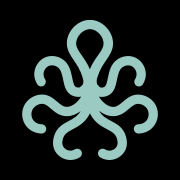
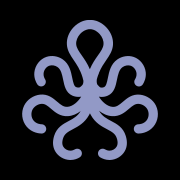
El acento vuelve al violeta, el icono lo lee del token, y dos guardias sobre los maestros (D-BBW-70/71) (#31)
* feat(color): el acento vuelve al violeta, el icono lo lee del token, y dos guardias nuevas sobre los maestros (D-BBW-70, D-BBW-71)

ACENTO #9299c6 → oklch(0.6936 0.0666 277.6). EL TONO VUELVE A SEPARARSE:
91,2 grados contra la familia neutra, frente a los 1,4 del turquesa. El croma
sube de 0.0503 a 0.0666, aunque no vuelve a los 0.1399 del violeta original:
es un violeta apagado.

EL PASO MADRE CAMBIA, 300 → 400, y no es cosmético: la fórmula reparte las
fracciones según dónde cae la madre, así que la rampa se re-deriva entera con
cuatro peldaños por encima y cinco por debajo. Es la primera vez en este repo
que una madre cambia de peldaño. Los tres roles semánticos se re-apuntan un
escalón para conservar su RELACIÓN con ella: dejar `--bbf-accent` en el 300
habría servido un tinte más claro que el color elegido.

EL ICONO LEE EL TOKEN. El maestro declara `currentColor` y el generador lo
resuelve desde `MASTER_PAINT_TOKENS`, por el mismo camino que ya usaba para
la superficie de los derivados opacos. Cero color escrito a mano en cualquier
maestro, comprobado. Un cambio de acento se propaga ahora solo a favicon,
iconos, recortable, Apple, imagen para compartir y el logo de la cabecera.

Eso abría un hueco nuevo que se cierra en el mismo commit: cambiar el token
no cambia ningún archivo maestro, así que la huella del lock seguiría
cuadrando y los derivados quedarían viejos EN VERDE. El lock sella ahora
también el color resuelto.
[…]

Changed region(s): [[0.1111, 0.1111, 0.8889, 0.8889]]

diff --git a/src/styles/tokens/primitives/colors.css b/src/styles/tokens/primitives/colors.css
@@ -76,32 +76,32 @@
   --bbf-color-mint-800: oklch(calc(var(--bbf-color-mint-l) - var(--bbf-color-mint-span-down) * 0.875) var(--bbf-color-mint-c) var(--bbf-color-mint-h));
   --bbf-color-mint-900: oklch(calc(var(--bbf-color-mint-l) - var(--bbf-color-mint-span-down) * 1) var(--bbf-color-mint-c) var(--bbf-color-mint-h));
 
-  /* ── Familia `accent` · madre #9bcac3 → oklch(0.8038 0.0503 185.0) · paso madre: 300 · origen: decisión de Zavala 2026-09-22 (D-BBW-67) ──
-     ENMIENDA DE MADRE: el acento deja de ser el violeta `#909fff` (oklch 0.7309 0.1399 275.6, N0 §2.2) y pasa a `#9bcac3`.
-     ⚠ EL ACENTO Y LA FAMILIA NEUTRA COLAPSAN EN TONO, y hay que decirlo porque cambia lo que el acento ES:
-       · acento nuevo H = 185.0 · blanco nuevo H = 186.4 → **1,4° de distancia**. Son el mismo tono.
-       · contra la madre mint ANTERIOR (174.4°) habrían sido 10,6°, que tampoco separa.
-       · el acento ANTERIOR estaba a **101,2°** de la familia neutra: era otro tono, y por eso funcionaba como acento.
-     Consecuencia: el acento **ya no se distingue por tono** sino solo por claridad y croma (L 0.8038 vs 0.9641; C 0.0503 vs 0.0377), y el
-     croma cae de 0.1399 a 0.0503 — **un tercio del que tenía**. Un anillo de foco y un estado de enlace que antes saltaban por color ahora
-     se apoyan en una diferencia de luminosidad pequeña sobre una rampa del mismo tono. Está medido en el output del turno; no se corrige
-     aquí porque es la decisión de Zavala y no un defecto de la fórmula.
-     LA FÓRMULA NO SE TOCA: el color nuevo cae en el **mismo paso madre (300)** que el viejo —ceil((0.98−0.8038)/(0.98−0.2)×9) = 3—, así que
-     las fracciones siguen siendo las que eran. */
-  --bbf-color-accent-l: 0.8038;
-  --bbf-color-accent-c: 0.0503;
-  --bbf-color-accent-h: 185.0;
+  /* ── Familia `accent` · madre #9299c6 → oklch(0.6936 0.0666 277.6) · paso madre: 400 · origen: decisión de Zavala 2026-09-22 (D-BBW-70) ──
+     ENMIENDA DE MADRE, la segunda del día: el acento vuelve al violeta. Deja `#9bcac3` (oklch 0.8038 0.0503 185.0, D-BBW-67) y pasa a
+     `#9299c6`.
+     EL TONO VUELVE A SEPARARSE DE LOS NEUTROS, que era el defecto que D-BBW-67 dejó anotado y este cambio corrige:
+       · acento nuevo H = 277.6 · familia neutra H = 186.4 → **91,2° de distancia**. Vuelve a ser otro tono.
+       · con el turquesa eran **1,4°**: el acento no se distinguía por tono sino solo por claridad y croma.
+       · el violeta ANTERIOR (#909fff, 275.6°) estaba a 101,2°. El nuevo se queda 10° más cerca, pero en el mismo lado del círculo.
+     EL CROMA SUBE, aunque no vuelve a donde estaba: 0.0503 → **0.0666** (el violeta viejo tenía 0.1399, el doble). Es un violeta apagado.
+     ⚠ EL PASO MADRE CAMBIA, 300 → 400, y eso NO es cosmético: la fórmula reparte las fracciones según dónde caiga la madre, así que la
+     rampa entera se re-deriva con repartos nuevos —cuatro peldaños por encima (1, 0.75, 0.5, 0.25) y cinco por debajo (0.2 … 1)— en vez
+     de los tres y seis de antes. Es la primera vez en este repo que una madre cambia de peldaño; por eso se dice aquí y por eso los roles
+     semánticos se re-apuntan (semantic/colors.css): `--bbf-accent` tiene que seguir siendo LA MADRE, y la madre ya no es el paso 300. */
+  --bbf-color-accent-l: 0.6936;
+  --bbf-color-accent-c: 0.0666;
+  --bbf-color-accent-h: 277.6;
   --bbf-color-accent-span-up: calc(var(--bbf-color-l-max) - var(--bbf-color-accent-l));
   --bbf-color-accent-span-down: calc(var(--bbf-color-accent-l) - var(--bbf-color-l-min));
   --bbf-color-accent-50: oklch(calc(var(--bbf-color-accent-l) + var(--bbf-color-accent-span-up) * 1) var(--bbf-color-accent-c) var(--bbf-color-accent-h));
-  --bbf-color-accent-100: oklch(calc(var(--bbf-color-accent-l) + var(--bbf-color-accent-span-up) * 0.6667) var(--bbf-color-accent-c) var(--bbf-color-accent-h));
-  --bbf-color-accent-200: oklch(calc(var(--bbf-color-accent-l) + var(--bbf-color-accent-span-up) * 0.3333) var(--bbf-color-accent-c) var(--bbf-color-accent-h));
-  --bbf-color-accent-300: oklch(var(--bbf-color-accent-l) var(--bbf-color-accent-c) var(--bbf-color-accent-h));
-  --bbf-color-accent-400: oklch(calc(var(--bbf-color-accent-l) - var(--bbf-color-accent-span-down) * 0.1667) var(--bbf-color-accent-c) var(--bbf-color-accent-h));
-  --bbf-color-accent-500: oklch(calc(var(--bbf-color-accent-l) - var(--bbf-color-accent-span-down) * 0.3333) var(--bbf-color-accent-c) var(--bbf-color-accent-h));
-  --bbf-color-accent-600: oklch(calc(var(--bbf-color-accent-l) - var(--bbf-color-accent-span-down) * 0.5) var(--bbf-color-accent-c) var(--bbf-color-accent-h));
-  --bbf-color-accent-700: oklch(calc(var(--bbf-color-accent-l) - var(--bbf-color-accent-span-down) * 0.6667) var(--bbf-color-accent-c) var(--bbf-color-accent-h));
-  --bbf-color-accent-800: oklch(calc(var(--bbf-color-accent-l) - var(--bbf-color-accent-span-down) * 0.8333) var(--bbf-color-accent-c) var(--bbf-color-accent-h));
+  --bbf-color-accent-100: oklch(calc(var(--bbf-color-accent-l) + var(--bbf-color-accent-span-up) * 0.75) var(--bbf-color-accent-c) var(--bbf-color-accent-h));
+  --bbf-color-accent-200: oklch(calc(var(--bbf-color-accent-l) + var(--bbf-color-accent-span-up) * 0.5) var(--bbf-color-accent-c) var(--bbf-color-accent-h));
+  --bbf-color-accent-300: oklch(calc(var(--bbf-color-accent-l) + var(--bbf-color-accent-span-up) * 0.25) var(--bbf-color-accent-c) var(--bbf-color-accent-h));
+  --bbf-color-accent-400: oklch(var(--bbf-color-accent-l) var(--bbf-color-accent-c) var(--bbf-color-accent-h));
+  --bbf-color-accent-500: oklch(calc(var(--bbf-color-accent-l) - var(--bbf-color-accent-span-down) * 0.2) var(--bbf-color-accent-c) var(--bbf-color-accent-h));
+  --bbf-color-accent-600: oklch(calc(var(--bbf-color-accent-l) - var(--bbf-color-accent-span-down) * 0.4) var(--bbf-color-accent-c) var(--bbf-color-accent-h));
+  --bbf-color-accent-700: oklch(calc(var(--bbf-color-accent-l) - var(--bbf-color-accent-span-down) * 0.6) var(--bbf-color-accent-c) var(--bbf-color-accent-h));
+  --bbf-color-accent-800: oklch(calc(var(--bbf-color-accent-l) - var(--bbf-color-accent-span-down) * 0.8) var(--bbf-color-accent-c) var(--bbf-color-accent-h));
   --bbf-color-accent-900: oklch(calc(var(--bbf-color-accent-l) - var(--bbf-color-accent-span-down) * 1) var(--bbf-color-accent-c) var(--bbf-color-accent-h));
 
   /* ── Familia `sea` · madre rgb(38,87,83) → oklch(0.421 0.053 188.1) · paso madre: 700 · origen: N0 §2.2 sombreador `blob-bg` (fase 6g, D-BBW-27) ── */

diff --git a/scripts/media/build.ts b/scripts/media/build.ts
@@ -37,6 +37,7 @@ import {
   MASTERS_DIR,
   PUBLIC_DIR,
   SURFACE_TOKEN,
+  MASTER_PAINT_TOKENS,
   derivatives,
   inlineIcons,
   masters,
@@ -48,12 +49,28 @@ import {
 import { REPO_ROOT, sha256, stableJson, type LockFile } from './lock';
 import { resolveColorToken } from './tokens';
 
-type SvgMaster = { id: MasterId; file: string; bytes: Buffer; viewBox: { x: number; y: number; w: number; h: number }; inner: string; paint: 'fill' | 'stroke'; d: string };
+type SvgMaster = { id: MasterId; file: string; bytes: Buffer; painted: Buffer; paintColor?: string; viewBox: { x: number; y: number; w: number; h: number }; inner: string; paint: 'fill' | 'stroke'; d: string };
 
+/**
+ * D-BBW-70 — EL COLOR DEL MAESTRO SALE DEL TOKEN, NO DEL ARCHIVO. Un maestro que dibuja marca declara `currentColor` y aquí se sustituye
+ * por el rol que `MASTER_PAINT_TOKENS` le asigne, resuelto a sRGB por el mismo camino que la superficie de los derivados opacos. La
+ * sustitución se hace sobre el TEXTO COMPLETO antes de partirlo, para que la alcancen las tres vías por las que un maestro sale:
+ * el `inner` que se rasteriza, la copia literal del perfil `svg-copy` y el `d` que se emite como vector inline.
+ * Un maestro SIN token asignado no se toca: su `currentColor` queda sin resolver, que es justo lo que necesitan los vectores que se
+ * pintan por CSS (ondas, brazos del conmutador, iconos de perfil), porque ésos heredan el color del texto donde se insertan.
+ */
 function loadSvgMaster(id: MasterId): SvgMaster {
   const file = path.join(REPO_ROOT, MASTERS_DIR, masters[id].file);
-  const bytes = fs.readFileSync(file);
-  const text = bytes.toString('utf8');
+  const raw = fs.readFileSync(file);
+  const token = MASTER_PAINT_TOKENS[id];
+  if (token && !raw.toString('utf8').includes('currentColor')) {
+    throw new Error(`[media] maestro ${masters[id].file}: tiene token de pintura "${token}" y no declara currentColor — el color no puede venir del archivo`);
+  }
+  const paintColor = token ? resolveColorToken(token).srgb : undefined;
+  const text = paintColor ? raw.toString('utf8').replace(/currentColor/g, paintColor) : raw.toString('utf8');
+  // `bytes` son los CRUDOS del archivo: es lo que el lock sella y lo que la guardia vuelve a hashear del disco. `painted` es lo que sale.
+  const bytes = raw;
+  const painted = paintColor ? Buffer.from(text, 'utf8') : raw;
   const vb = /viewBox="([^"]+)"/.exec(text);
   if (!vb) throw new Error(`[media] maestro ${masters[id].file}: sin viewBox`);
   const [x, y, w, h] = vb[1].trim().split(/[\s,]+/).map(Number);
@@ -65,7 +82,7 @@ function loadSvgMaster(id: MasterId): SvgMaster {
   const pathTag = /<path\b[^>]*>/.exec(inner);
   const d = pathTag ? (/\bd="([^"]+)"/.exec(pathTag[0])?.[1] ?? '') : '';
   const paint: 'fill' | 'stroke' = pathTag && /\bstroke="/.test(pathTag[0]) && /\bfill="none"/.test(pathTag[0]) ? 'stroke' : 'fill';
-  return { id, file: masters[id].file, bytes, viewBox: { x, y, w, h }, inner, paint, d };
+  return { id, file: masters[id].file, bytes, painted, paintColor, viewBox: { x, y, w, h }, inner, paint, d };
 }
 
 type VideoMaster = { id: MasterId; file: string; abs: string; bytes: Buffer };
@@ -249,7 +266,15 @@ async function main(): Promise<void> {
     generated: { path: GENERATED_FILE, sha256: '' },
   };
   for (const id of Object.keys(masters) as MasterId[]) {
-    lock.masters[id] = { file: masters[id].file, sha256: sha256(masters[id].kind === 'video' ? video(id).bytes : master(id).bytes) };
+    // D-BBW-70: además de la huella del archivo, el lock sella el COLOR RESUELTO con el que se pintó. Sin esto se abriría un hueco
+    // nuevo: cambiar el token del acento no cambia ningún maestro, así que la huella seguiría cuadrando y los derivados quedarían
+    // viejos en verde — justo la clase de fallo silencioso que este mecanismo venía a cerrar.
+    const svgPaint = masters[id].kind === 'video' ? undefined : master(id).paintColor;
+    lock.masters[id] = {
+      file: masters[id].file,
+      sha256: sha256(masters[id].kind === 'video' ? video(id).bytes : master(id).bytes),
+      ...(svgPaint ? { paint: svgPaint } : {}),
+    };
   }
 
   const outputs = new Map<DerivativeId, { bytes: Buffer; width?: number; height?: number; budgetBytes?: number; streams?: string }>();
@@ -286,7 +311,7 @@ async function main(): Promise<void> {
     }
     const m = master(d.master);
     if (p.kind === 'svg-copy') {
-      outputs.set(id, { bytes: m.bytes, width: Math.round(m.viewBox.w), height: Math.round(m.viewBox.h) });
+      outputs.set(id, { bytes: m.painted, width: Math.round(m.viewBox.w), height: Math.round(m.viewBox.h) });
     } else if (p.kind === 'png') {
       const pad = p.padding * p.size;
       let avail = p.size - 2 * pad;

diff --git a/scripts/lint/check-media.ts b/scripts/lint/check-media.ts
@@ -25,7 +25,8 @@ import * as fs from 'fs';
 import * as path from 'path';
 import { execFileSync } from 'child_process';
 import sharp from 'sharp';
-import { GENERATED_FILE, LOCK_FILE, MASTERS_DIR, PUBLIC_DIR, derivatives, masters, publicAllowList } from '../../src/media/registry';
+import { GENERATED_FILE, LOCK_FILE, MASTERS_DIR, MASTER_PAINT_TOKENS, PUBLIC_DIR, derivatives, masters, publicAllowList } from '../../src/media/registry';
+import { resolveColorToken } from '../media/tokens';
 import { REPO_ROOT, readLock, sha256File } from '../media/lock';
 
 type Fail = { rule: string; where: string; detail: string };
@@ -45,6 +46,45 @@ for (const [id, m] of Object.entries(masters)) {
   if (!h) fails.push({ rule: 'R1', where: `${MASTERS_DIR}/${m.file}`, detail: 'maestro declarado en el registro que no existe' });
   else if (!rec) fails.push({ rule: 'R3', where: `${MASTERS_DIR}/${m.file}`, detail: `maestro "${id}" sin entrada en el lock: regenerar (pnpm media:build)` });
   else if (rec.sha256 !== h) fails.push({ rule: 'R1', where: `${MASTERS_DIR}/${m.file}`, detail: `el maestro cambió y los derivados NO se regeneraron (lock ${rec.sha256.slice(0, 12)}… ≠ ${h.slice(0, 12)}…): pnpm media:build` });
+
+  /**
+   * R7 · NINGÚN COLOR ESCRITO A MANO EN UN MAESTRO (P-BBW-57, D-BBW-70). La guardia de color (`check-color-tokens.ts`) escanea `src/**`
+   * y no puede ver esto: los maestros son SVG y viven en `media/`. Por ahí sobrevivió un `#909fff` a un cambio de paleta entero —el
+   * isotipo quedó como el único elemento del color viejo en toda la página, y todas las guardias dieron verde (L-87).
+   * **Esa guardia no se toca**: es COPIA POR CONTRATO (D-BBW-06, CONTRATO-04) y se actualiza re-pinneando, no editando. La regla vive
+   * aquí, que es donde el repo ya es dueño de `media/masters/**`.
+   * Qué se acepta en un maestro: `currentColor` —que el generador resuelve desde el token (`MASTER_PAINT_TOKENS`) o deja para que lo
+   * ponga el CSS— y `none`. Cualquier literal de color es error, con la línea.
+   */
+  /**
+   * R8 · EL COLOR DEL TOKEN, SELLADO (D-BBW-70). Un maestro pintado por token no cambia de bytes cuando cambia el token: la huella del
+   * archivo seguiría cuadrando y los derivados quedarían viejos **en verde**. El lock sella el color resuelto y aquí se vuelve a
+   * resolver y a comparar, que es lo que convierte «el color viene del token» en una promesa comprobable y no en una intención.
+   */
+  const tokenPintura = MASTER_PAINT_TOKENS[id as keyof typeof MASTER_PAINT_TOKENS];
+  if (rec && tokenPintura) {
+    const ahora = resolveColorToken(tokenPintura).srgb;
+    if (rec.paint !== ahora) {
+      fails.push({
+        rule: 'R8',
+        where: `${MASTERS_DIR}/${m.file}`,
+        detail: `el token de pintura "${tokenPintura}" vale ahora ${ahora} y los derivados se generaron con ${rec.paint ?? '(ninguno)'}: pnpm media:build`,
+      });
+    }
+  }
+
+  if (h && /\.svg$/i.test(m.file)) {
+    const texto = fs.readFileSync(abs, 'utf8');
+    texto.split(/\r?\n/).forEach((linea, i) => {
+      for (const hit of linea.matchAll(/#[0-9a-fA-F]{3,8}\b|\b(?:rgba?|hsla?|oklch|oklab|lab|lch|color)\(/g)) {
+        fails.push({
+          rule: 'R7',
+          where: `${MASTERS_DIR}/${m.file}:${i + 1}`,
+          detail: `color escrito a mano en un maestro ("${hit[0]}"): un maestro declara \`currentColor\` y el color se resuelve al construir desde su token en MASTER_PAINT_TOKENS (D-BBW-70). Un literal aquí no lo ve ninguna otra guardia (L-87)`,
+        });
+      }
+    });
+  }
 }
 for (const id of Object.keys(lock.masters)) {
   if (!(id in masters)) fails.push({ rule: 'R3', where: LOCK_FILE, detail: `maestro "${id}" en el lock que ya no está en el registro: regenerar` });

diff --git a/src/styles/tokens/semantic/colors.css b/src/styles/tokens/semantic/colors.css
@@ -20,12 +20,33 @@
   --bbf-text-on-base-secondary: var(--bbf-color-mint-200);
   --bbf-text-on-base-muted: var(--bbf-color-mint-400);
   --bbf-text-on-base-faint: var(--bbf-color-mint-700);
+  /* D-BBW-73 · LA LÍNEA LEGAL DEL PIE, DOS PELDAÑOS POR ENCIMA DE LA MADRE. El rol existe precisamente para esto: lo que el pie necesita
+     no es «el acento» sino «texto pequeño legible sobre el fondo, en el color de acento», y son dos cosas distintas en cuanto el acento
+     baja de luminosidad. **La madre no se toca**: sigue siendo la identidad — el icono, el logo y lo que pinte marca.
+     POR QUÉ `accent-200` Y NO `accent-300`, que es la corrección del criterio con el que se midió antes: **el fondo de este sitio se
+     mueve**, así que el contraste de una pieza no es un número sino una banda que depende del fotograma. Con `accent-300` la banda al
+     ancho peor rozaba el mínimo —diez muestras dieron 4,67–5,32, pero otra dio **4,49**— y **la garantía se juzga por el PEOR momento,
+     no por la mayoría de las muestras**, igual que D-BBW-25 la juzga por el peor píxel y no por el píxel medio. Un solo fotograma por
+     debajo es un incumplimiento, no ruido. `accent-200` sube la banda entera y deja el margen fuera del alcance de la oscilación. */
+  --bbf-text-on-base-accent: var(--bbf-color-accent-200);
 
-  --bbf-accent: var(--bbf-color-accent-300);
-  --bbf-accent-glow: var(--bbf-color-accent-400);
-  --bbf-accent-glow-soft: var(--bbf-color-accent-800);
+  /* D-BBW-70 · LOS TRES ROLES SE RE-APUNTAN UN PELDAÑO, y no por gusto: la madre del acento se mudó del paso 300 al 400, así que dejar
+     `--bbf-accent` en el 300 habría servido un tinte MÁS CLARO que el color que Zavala eligió. Lo que se conserva es la RELACIÓN con la
+     madre, que es lo que los tres roles significan: el acento ES la madre, el resplandor va un peldaño por debajo y el resplandor suave
+     cuatro más abajo. Antes: 300 (madre) · 400 (+1) · 800. Ahora: 400 (madre) · 500 (+1) · 900.
+     `-glow-soft` pasa a 900, que es el extremo oscuro de la rampa (L = 0.2): con la madre en el 400 solo quedan cinco peldaños por debajo,
+     así que el cuarto y el quinto son 800 y 900. Se elige el 900 —y no el 800— porque el rol es el resplandor MÁS apagado de los dos y
+     debe seguir siéndolo; con el 800 quedaría a un solo peldaño del resplandor normal. */
+  --bbf-accent: var(--bbf-color-accent-400);
+  --bbf-accent-glow: var(--bbf-color-accent-500);
+  --bbf-accent-glow-soft: var(--bbf-color-accent-900);
 
-  --bbf-focus-ring: var(--bbf-accent);
+  /* D-BBW-72 · EL ANILLO DE FOCO, UN PELDAÑO POR ENCIMA DE LA MADRE. Con la madre el peor caso contra el fondo real era **2,73**, por
+     debajo del 3:1 que exige WCAG 1.4.11 para un indicador no textual; con `accent-300` sube a **3,54**.
+     **SE QUEDA EN `accent-300` y no sigue al pie hasta el 200** (D-BBW-73), y la razón es la medida y no la simetría: su banda entre
+     fotogramas es **3,54–3,55**, prácticamente plana, porque el anillo vive en la franja de la cabecera, donde el sombreador apenas
+     varía. Donde no hay oscilación no hace falta comprar margen contra ella, y un anillo más claro se aleja más del color de marca. */
+  --bbf-focus-ring: var(--bbf-color-accent-300);
   --bbf-line-on-base: var(--bbf-color-mint-700);
   --bbf-surface-veil: var(--bbf-shadow-ink-soft);
   --bbf-surface-veil-text: var(--bbf-shadow-ink-veil-text);

diff --git a/src/components/organisms/Footer/Footer.module.css b/src/components/organisms/Footer/Footer.module.css
@@ -34,17 +34,19 @@
   --bbf-enter-delay: var(--bbf-motion-enter-delay-legal);
 
   margin: 0;
-  color: var(--bbf-text-on-base-muted);
+  color: var(--bbf-text-on-base-accent);
   font-family: var(--bbf-type-legal-family);
   font-size: var(--bbf-type-legal-size);
   font-weight: var(--bbf-type-legal-weight);
-  letter-spacing: var(--bbf-type-legal-tracking);
+  letter-spacing: var(--bbf-type-legal-tracking-mixed);
   text-shadow: var(--bbf-type-legal-shadow);
-  /* D-BBW-68 · A PRUEBA: la línea legal en minúscula normal, MISMO cuerpo. Zavala la compara contra la caja alta antes de decidir.
-     Volver a mayúsculas es esta línea: `text-transform: uppercase;`.
-     NOTA QUE LA COMPARACIÓN NECESITA: el interletrado del rol `legal` es ×6 y se eligió PARA CAJA ALTA («las mayúsculas sin interletrado
-     se apelmazan»). En minúscula ese mismo ×6 queda suelto. La prueba cambia SOLO la caja, que es lo pedido y lo que hace la comparación
-     justa; si gana la minúscula, el interletrado quiere su propio peldaño y eso es otra decisión, no un arreglo silencioso. */
+  /* D-BBW-68 CERRADA · la línea legal se queda en CAJA MIXTA, mostrando la ortografía real de la cadena de contenido
+     (`© 2026 Christian Zavala Cubas · Director creativo de sistemas de marca`). **Aquí no hay ninguna `text-transform`**, y esto
+     importa decirlo: no se ha quitado en este turno porque ya no estaba — salió en D-BBW-68 y lo que se ve es el contenido tal cual.
+     Lo que SÍ cambia ahora es la consecuencia que aquella decisión dejó pendiente (P-BBW-59): el interletrado del rol baja de ×6 a ×1,
+     porque el ×6 era para caja alta. D-BBW-71.
+     EL COLOR pasa al rol de acento (`--bbf-text-on-base-accent`), nunca un hex. Medido sobre el fondo real: es texto pequeño y su
+     mínimo es 4,5. */
   text-wrap: pretty;
 }
 

diff --git a/src/styles/tokens/semantic/typography.css b/src/styles/tokens/semantic/typography.css
@@ -127,6 +127,15 @@
   --bbf-type-legal-size: var(--bbf-size-n2);
   --bbf-type-legal-weight: var(--bbf-weight-text-regular);
   --bbf-type-legal-tracking: var(--bbf-tracking-6);
+  /* D-BBW-71 · EL MISMO ROL, EN CAJA MIXTA. El ×6 de arriba se eligió para MAYÚSCULAS, donde el interletrado es necesario porque las
+     versales sin él se apelmazan — y sigue siendo el correcto para lo que va en caja alta con este rol: las etiquetas de los enlaces de
+     perfil (`typeRole="legal"` en la hoja del panel y en la barra del pie, que NavLink pone en versales).
+     Pero la línea legal del pie ya no va en caja alta: muestra la ortografía real de su cadena. Y en caja mixta ese mismo ×6 la
+     desmadeja, porque el ojo lee por la FORMA de la palabra y separar las letras la destruye.
+     Por eso el interletrado se parte en dos y el resto del rol no: ×1 es el peldaño que el sistema ya empareja con texto pequeño en caja
+     mixta (el rol `signature` lo usa para esto mismo). **Tocar el ×6 compartido habría dejado sin interletrado a las versales de la nav**,
+     que es exactamente el daño que esta segunda llave evita. */
+  --bbf-type-legal-tracking-mixed: var(--bbf-tracking-1);
   --bbf-type-legal-shadow: var(--bbf-shadow-sm);
 
 }

diff --git a/src/media/registry.ts b/src/media/registry.ts
@@ -21,6 +21,17 @@ export const GENERATED_FILE = "src/media/generated.ts";
 /** Rol de superficie que reciben los derivados opacos. Resuelto a sRGB por el guion desde src/styles/tokens (nunca un valor aquí). */
 export const SURFACE_TOKEN = "--bbf-surface-base";
 
+/**
+ * D-BBW-70 — CON QUÉ TOKEN SE PINTA UN MAESTRO. Un maestro que dibuja marca no lleva su color dentro: lo declara `currentColor` y el
+ * generador lo resuelve AQUÍ, desde el rol, igual que ya hacía con la superficie de los derivados opacos. Así un cambio de acento se
+ * propaga solo a favicon, iconos, recortable, Apple, imagen para compartir y el logo de la cabecera, sin tocar ningún archivo de dibujo.
+ * Un maestro sin entrada aquí se queda con su `currentColor` sin resolver — que es lo correcto para los vectores que se pintan por CSS
+ * (las ondas de subrayado, los brazos del conmutador, los iconos de perfil): esos heredan el color del texto donde se insertan.
+ */
+export const MASTER_PAINT_TOKENS: Partial<Record<MasterId, string>> = {
+  brandIcon: "--bbf-accent",
+};
+
 export type MasterKind = "svg" | "video";
 export type Master = { file: string; kind: MasterKind; origin: string };
 

diff --git a/scripts/media/lock.ts b/scripts/media/lock.ts
@@ -10,7 +10,7 @@ import { fileURLToPath } from 'url';
 
 export const REPO_ROOT = path.resolve(path.dirname(fileURLToPath(import.meta.url)), '..', '..');
 
-export type LockMaster = { file: string; sha256: string };
+export type LockMaster = { file: string; sha256: string; /** D-BBW-70: color resuelto del token con el que se pintó el maestro, si tiene uno */ paint?: string };
 export type LockDerivative = {
   path: string;
   master: string;
